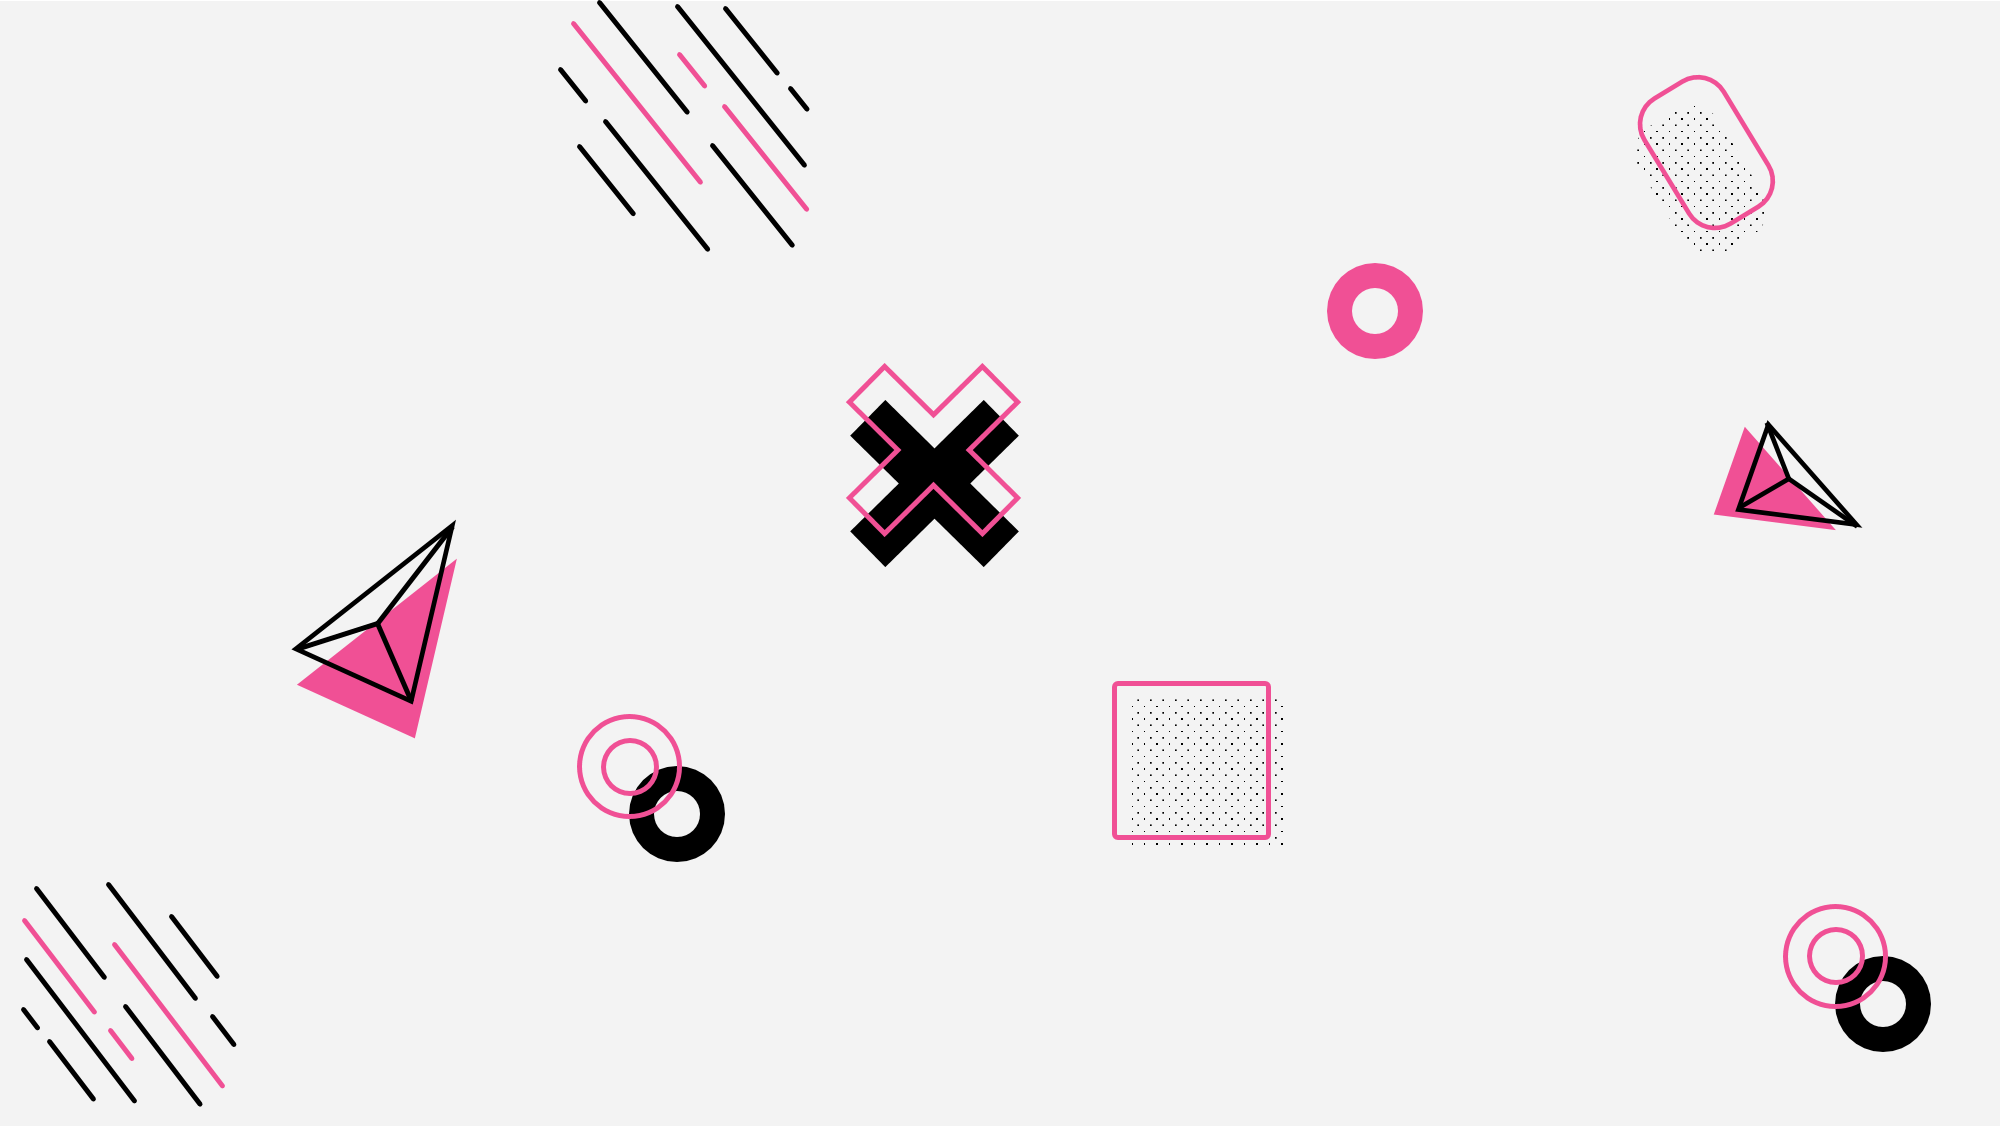
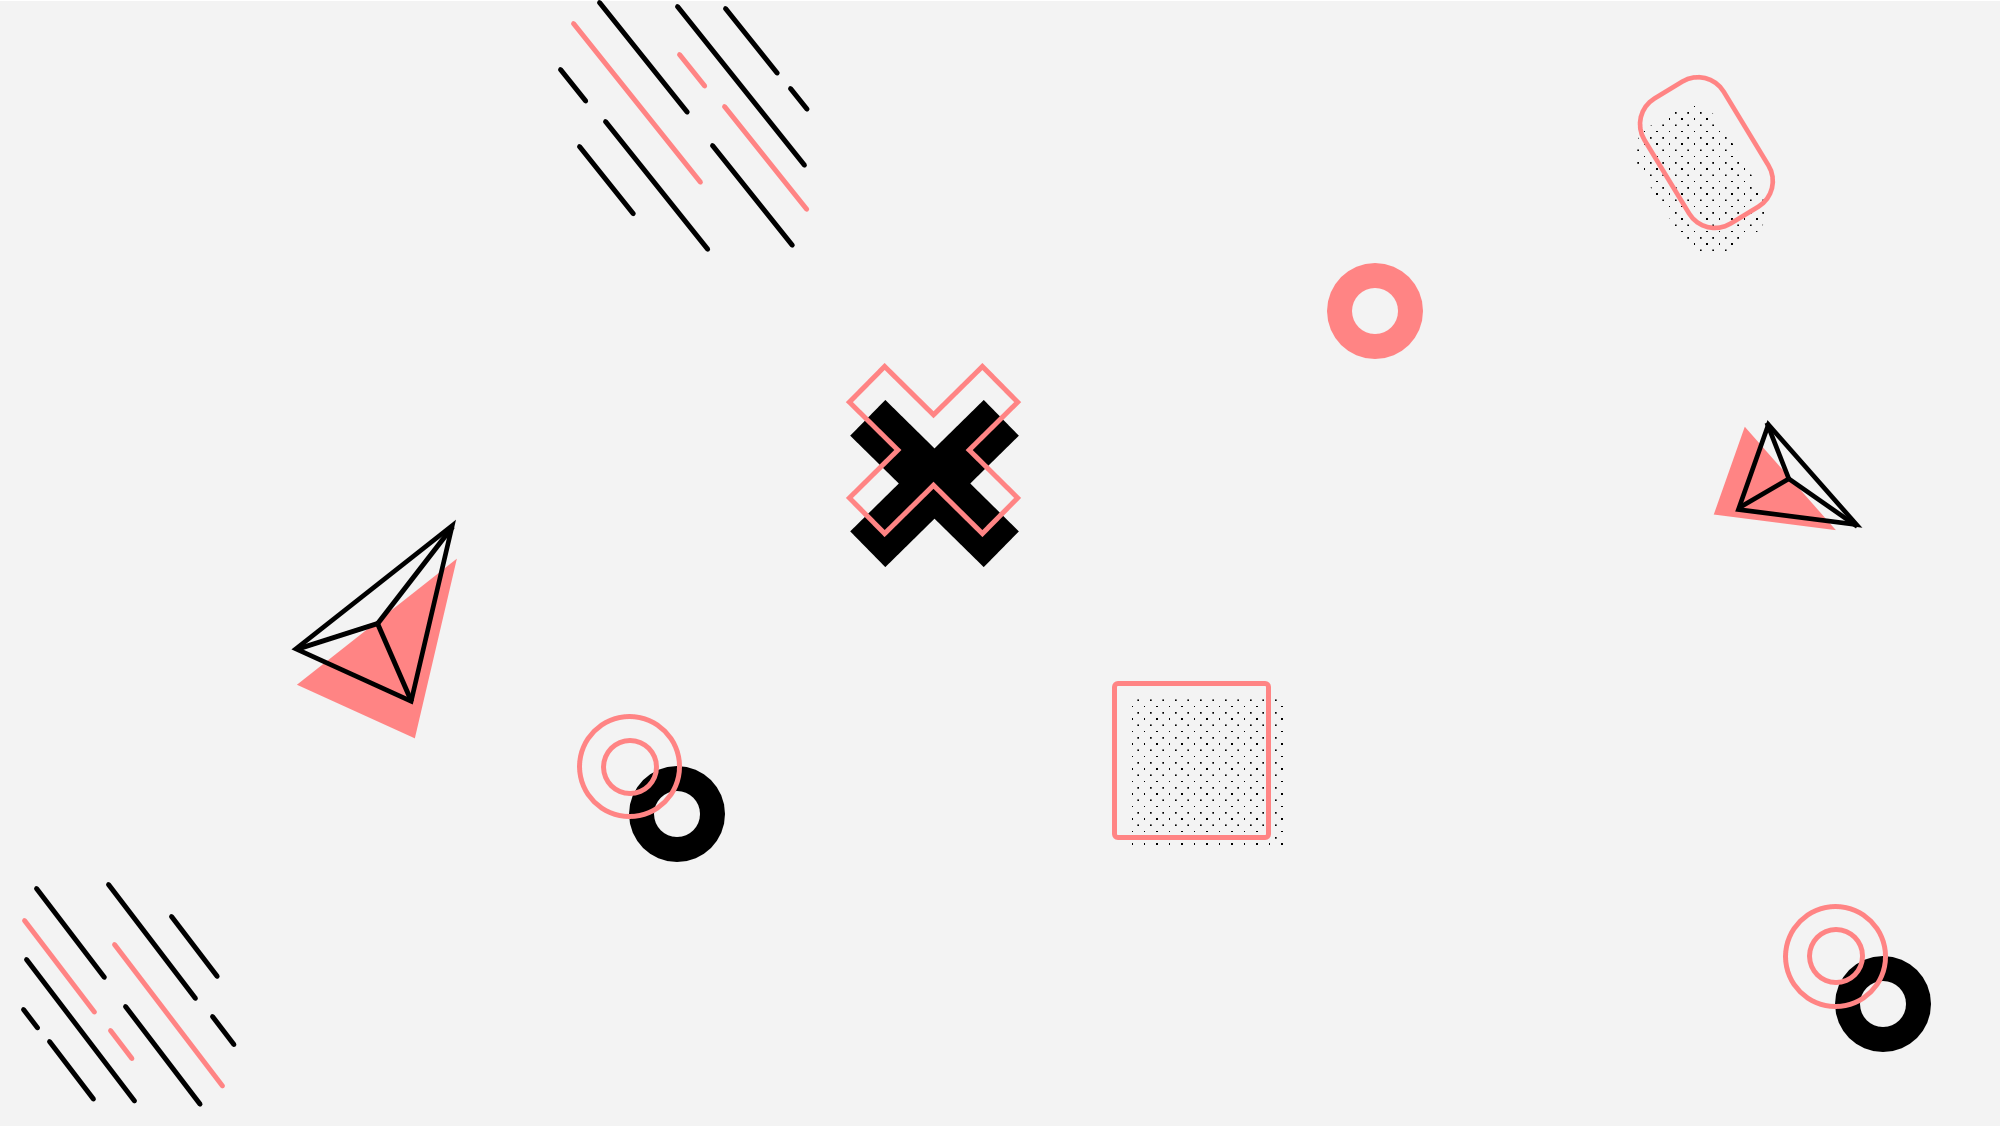
commit

diff --git a/indexCode.js b/indexCode.js
@@ -4,7 +4,7 @@ var currPage;
 var currSection;
 
 //array of chapter titles
-var arrChapterName = ["א'- רקע על המערכת", "ב'- כניסה למערכת", "ג'- ניווט בסיסי בSAP", "ד'- טרנזקציות"];
+var arrChapterName = ["א'- פתיח", "ב'- סיור בפניה", "ג'- פתיחת פניה", "ד'- הקצאת פניה", "ה'- סגירת פניה", "ו'- SLA"];
 
 //matrix containing all content
 //an array for each chapter
@@ -15,13 +15,7 @@ var matContent = [
     [
         [
             {
-                "section": "<p> לפני שנדבר על מערכת ה-SAP, נבין ראשית מהי מערכת מידע.</p> <p><b>מערכת מידע</b> היא תוכנה המאפשרת לנהל מידע באופן ממוחשב בעזרת השימוש במאגרי מידע שונים. המערכת מאפשרת לנו <b> לאחסן, לעבד, לנתח, לנהל ולשלוף</b> נתונים באופן מלא תוך ביצוע פעולות על המידע לפי הצורך שלנו.</p> <p class='align-left'> <b>ERP- Enterprise Resource Planning</b> </p> <p> מערכות ERP הן סוג של מערכות מידע הכוללות את כל היישומים הדרושים לתכנון, ניהול ובקרה של כלל פעילויות ומשאבי הארגון. </p> <hr> <p class='align-left'> <b>SAP- Systems, Applications and Products</b> <p/> <p> ה-SAP הוא חבילת ה-ERP המובילה בישראל ובעולם. המערכת כוללת מעל 10 מיליון משתמשים המתפרשים על כ-120 מדינות. חלק מלקוחות הSAP בישראל, ביניהן צבא ההגנה לישראל: </p><img class='full-img' src='media/brands.png'/>",
-                "instruction": ""
-            }
-        ],
-        [
-            {
-                "section": "<p>רוב תוכנות הERP מחולקות ל\"מודולים\". מודול הוא תת–מערכת בתוכנה המיישם פונקציונליות מסוימת, למשל: ניהול מלאי, ניהול קשרי לקוחות, משא\"ן, מערכות תומכות החלטה ועוד.</p > <p>אצלנו במיטב משתמשים בשלושה מודלים עיקריים שקיימים בSAP: </p> <p class='align-left'><b>⋆ ECC – <u>E</u>RP <u>C</u>entral <u>C</u>omponent <br> ⋆ BW – <u>B</u>usiness <u>W</u>arehouse<br> ⋆ CRM – <u>C</u>ostumer <u>R</u>elation <u>M</u>anagement</b></p> <p><b>ה-ECC הוא הרכיב המרכזי של הSAP, והמערכת אליה נתייחס כשנדון בשימוש בSAP.</b></p>  <p>BW היא מערכת להפקת דוחות גדולים. כל לילה נתונים עוברים מה-ECC ל-BW, זאת אומרת שהנתונים נשארים מעודכנים לסוף היום הקודם.</p> <p>לאחרונה מערכת הCRM עברה מלהיות מערכת צבאית בעלת קשר ישיר לERP כולו, למערכת אזרחית עם ממשק שמעביר את הנתונים באופן מרוכז מספר פעמים ביום.</p>",
+                "section": "<p>מערכת הCRM הינה מערכת לניהול קשרי לקוחות (Customer Relationship Management).</p><p>המערכת מאפשרת ליחידת מיטב לנהל פניות של מלש\"בים במגוון נושאים, לתעד אותן ולעקוב אחר הטיפול בהן.</p><p>רוב הפניות מתקבלות במרכז המידע והשירות שמורכב מהמוקד הטלפוני של מיטב והמוקד הדיגיטלי. הפניות מטופלות ונסגרות במוקד או מועברות משם להמשך הטיפול במדורים המקצועיים ביחידה.</p><p>בנוסף, ישנן פניות אשר מגיעות דרך אתר \"מתגייסים ברשת\" &ndash; חלקן מגיעות למוקד וחלקן מופנות ישירות למדור המקצועי.</p><img class='full-img' src='media/flowchart.png'/>",
                 "instruction": ""
             }
         ]
@@ -30,23 +24,24 @@ var matContent = [
     [
         [
             {
-                "section": "<p>כדי להיכנס למערכת, נחפש את התוכנה sap logon, דרכה אפשר להתחבר למערכת. במידה והתוכנה לא מותקנת יש לפנות למתקן מחשב. </p>",
-                "instruction": "פתח את התוכנה במסך התרגול",
+                "section": "<p>אז התחברנו למחשב הלוקאלי! כעת עלינו לפתוח את מערכת הCRM. תחילה נכנס לדפדפן. </p>",
+                "instruction": "פתח את דפדפן כרום במסך התרגול",
                 "interactionType": "click",
-                "width": "12%",
-                "height": "16%",
-                "right": "9%",
-                "top": "8%",
+                "width": "8%",
+                "height": "10%",
+                "right": "11.5%",
+                "top": "19.5%",
                 "isChangeScreen": "true"
             },
             {
-                "section": "<p>כפי שאמרנו בחלק הקודם, המערכת מורכבת משלושה מודלים עיקריים, אותם ניתן לראות בחלון הכניסה (לאחר לחיצה כפולה על החלון).</p><p>עלינו למצוא בתיקיות בצד ימין חיבור לERP &nbsp;בסביבת הProd.</p><p>החיבור עשוי להימצא ישירות בתיקיה בשם \"<strong>חיבורים</strong>\", או תחת תיקיה בשם \"<strong>ECC</strong>\" (המייצגת את המודול בו אנחנו רוצים להשתמש) ושם תחת תיקייה בשם \"Prod\" (שמייצגת את הסביבה הרלוונטית).</p > <p>ישנם שני סוגים של סביבות, הסביבה החיה וסביבות הבדיקות - סביבת הProd (קיצור של Production- ייצור) היא הסביבה החיה בה משתמשים אנשי יחידת מיטב.</p>",
-                "instruction": "פתח את התיקייה הנכונה במסך התרגול",
-                "interactionType": "click",
-                "width": "10%",
-                "height": "3.3%",
-                "right": "7%",
-                "top": "19.97%",
+                "section": "<p>כעת, עלינו להתחבר לכתובת https://crm.medone.idf.il.</p>",
+                "instruction": "הזן את הכתובת <input id='to-copy' class='to-copy' readonly value=\"https://crm.medone.idf.il\"/> במסך התרגול",
+                "interactionType": "type",
+                "correctInput": "https://crm.medone.idf.il",
+                "width": "50%",
+                "height": "3%",
+                "right": "39%",
+                "top": "3.55%",
                 "isChangeScreen": "true"
             },
             {
@@ -390,8 +385,8 @@ var matContent = [
 //which contains an array for each page
 //which contains the correct image number
 var matOpeningScreen = [
-    [0, 0],
-    [0],
+    [1],
+    [1],
     [5, 9],
     [15, 15, 24]
 ];
@@ -1118,12 +1113,12 @@ function biggerText(event) {
 */
 function changeColor(event) {
     if ($("#color-scheme").hasClass("change-to-pink")) {
-        document.documentElement.style.setProperty('--header-color1', '#F05095');
-        document.documentElement.style.setProperty('--sidebar-color2', '#FC63A6');
-        document.documentElement.style.setProperty('--start-btn-color3', '#D24585');
-        document.documentElement.style.setProperty('--scrollbar-color4', '#642046');
-        document.documentElement.style.setProperty('--menu-item-color5', '#531A3A');
-        document.documentElement.style.setProperty('--hover-color6', '#3a0f27');
+        document.documentElement.style.setProperty('--header-color1', '#fd6b86');
+        document.documentElement.style.setProperty('--sidebar-color2', '#ff8484');
+        document.documentElement.style.setProperty('--start-btn-color3', '#f54c6c');
+        document.documentElement.style.setProperty('--scrollbar-color4', '#a52c50');
+        document.documentElement.style.setProperty('--menu-item-color5', '#830e27');
+        document.documentElement.style.setProperty('--hover-color6', '#580020');
 
         // $(".sap-icon").attr("src", "media/sapPink.png");
         $("body").css("background-image", "url(media/backgroundPink.png)");

diff --git a/index.html b/index.html
@@ -71,45 +71,38 @@
                 <div class="menu-item" id="menu-item1">
                     <div class="menu-item-title">
                         <h1>חלק א-</h1>
-                        <h2>רקע על המערכת</h2>
+                        <h2>פתיחה</h2>
                     </div>
-                    <h3>
-                        מערכות מידע<br/>
-                        מערכות ERP<br/>
-                        מודולים
-                    </h3>
                 </div>
                 <div class="menu-item" id="menu-item2">
                     <div class="menu-item-title">
                         <h1>חלק ב-</h1>
-                        <h2>כניסה למערכת</h2>
+                        <h2>סיור בפניה</h2>
                     </div>
-                    <h3>
-                        חיבורים<br />
-                        סביבות
-                    </h3>
                 </div>
                 <div class="menu-item" id="menu-item3">
                     <div class="menu-item-title">
                         <h1>חלק ג-</h1>
-                        <h2>ניווט בסיסי בSAP</h2>
+                        <h2>פתיחת פניה</h2>
                     </div>
-                    <h3>
-                        סרגל כלים<br />
-                        הוספה למועדפים<br />
-                        חיפוש טרנזקציות
-                    </h3>                
                 </div>
                 <div class="menu-item" id="menu-item4">
                     <div class="menu-item-title">
                         <h1>חלק ד-</h1>
-                        <h2>טרנזקציות</h2>
+                        <h2>הקצאת פניה</h2>
                     </div>
-                    <h3>
-                        PB30/20, Zapro<br />
-                        שגיאות נפוצות<br />
-                        חיפוש מועמד
-                    </h3>
+                </div>
+                <div class="menu-item" id="menu-item5">
+                    <div class="menu-item-title">
+                        <h1>חלק ה-</h1>
+                        <h2>סגירת פניה</h2>
+                    </div>
+                </div>
+                <div class="menu-item" id="menu-item6">
+                    <div class="menu-item-title">
+                        <h1>חלק ו-</h1>
+                        <h2>SLA (הסכם רמת שירות)</h2>
+                    </div>
                 </div>
                 <div id="menu-footer" class="menu-footer">
                     <img id="bigger-text" src="media/bigger.png" class="change-size"/>
@@ -157,7 +150,7 @@
     </div>
 
     <div id="start-btn" class="start-btn">
-        התחל
+        Let's see!RM
         <img src="media/arrow.png"/>
     </div>
 

diff --git a/indexStyle.css b/indexStyle.css
@@ -5,9 +5,21 @@
   --sidebar-color2: #8BBF2C;
   --start-btn-color3: #5D9134;
   --scrollbar-color4: #3A641C;
-  --menu-item-color5: #294714;
+  --menu-item-color5: #2c7204;
   --hover-color6: #172b0a;
   --marker-color: #ffefb8;
+  /* --header-color1: #fd6b86;
+  --sidebar-color2: #ff8484;
+  --start-btn-color3: #f54c6c;
+  --scrollbar-color4: #a52c50;
+  --menu-item-color5: #830e27;
+  --hover-color6: #580020; */
+  /* --header-color1: #f8749d;
+  --sidebar-color2: #f5b2c3;
+  --start-btn-color3: #ef4a82;
+  --scrollbar-color4: #cf2762;
+  --menu-item-color5: #b01145;
+  --hover-color6: #630518; */
   /* --header-color1: #F05095;
   --sidebar-color2: #FC63A6;
   --start-btn-color3: #D24585;
@@ -305,7 +317,7 @@ body {
 .info-content {
   direction: rtl;
   font-family: Arimo;
-  font-size: 16px;
+  font-size: 18px;
   line-height: 32px;
 }
 
@@ -344,6 +356,12 @@ body {
   --marker-color: #fcff2f;
   animation: marker 4s;
 }
+
+/* .instruction .to-copy {
+  border: none;
+  background-color: transparent;
+  color: var(--menu-item-color5);
+} */
 
 .overlay {
   z-index: 3;
@@ -546,7 +564,7 @@ body {
 }
 
 .change-to-pink {
-  background-image: linear-gradient(to right, #FC63A6 0%, #FC63A6 33.33%, #F05095 33.33%, #F05095 66.66%, #D24585 66.66%, #D24585 100%);
+  background-image: linear-gradient(to right, #ff8484 0%, #ff8484 33.33%, #fd6b86 33.33%, #fd6b86 66.66%, #f54c6c 66.66%, #f54c6c 100%);
 }
 
 .change-to-green {
@@ -558,25 +576,16 @@ body {
   cursor: pointer;
 }
 
-.menu-item-title {
-  width: 10vw;
-}
-
 .menu-item h1 {
   font-size: 3.2vh;
-  margin: 0;
+  display: inline;
+  vertical-align: middle;
 }
 
 .menu-item h2 {
-  font-size: 1.6vh;
-  margin: 0;
-}
-
-.menu-item h3 {
-  font-size: 1.4vh;
-  margin: 0;
-  font-weight: normal;
-  color: white;
+  font-size: 2vh;
+  display: inline;
+  vertical-align: middle;
 }
 
 .box {
@@ -762,6 +771,7 @@ tr:nth-child(even) {
   box-sizing: border-box;
   direction: ltr;
   position: absolute;
+  border: 3px red solid;
 }
 
 #screen-img {
